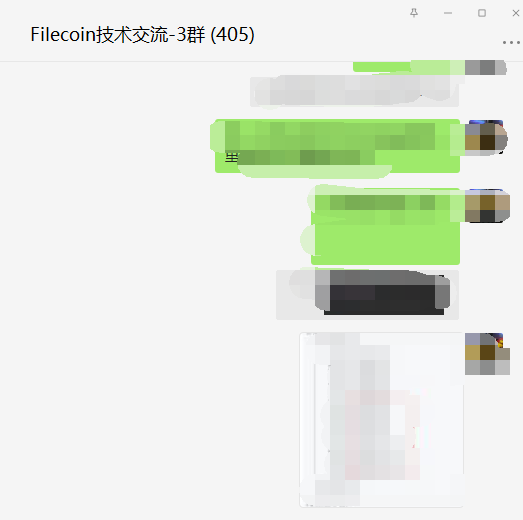
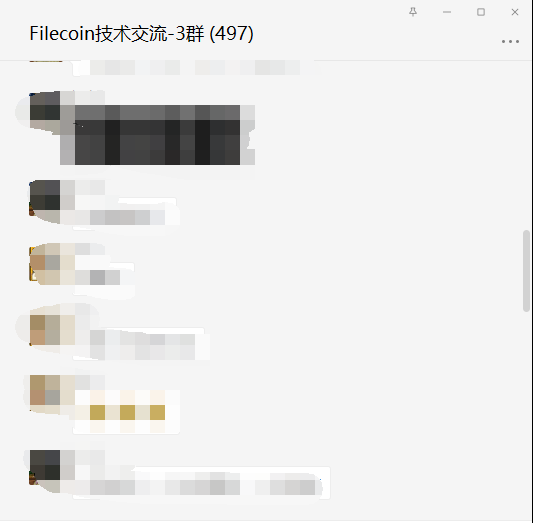
添加 Filecoin技术交流群-4群。

diff --git a/README.md b/README.md
@@ -1317,12 +1317,14 @@ Swap:         2.0Gi       1.2Gi       795Mi
 
 Filecoin 中文交流-1群（目前已满）,
 Filecoin 中文交流-2群（目前已满）,
-Filecoin 中文交流-3群（目前还有空位）,
+Filecoin 中文交流-3群（目前已满）,
+Filecoin 中文交流-4群（目前还有空位）,
 
 
 ![Filecoin 中文交流-1群（目前已满）](./pictures/wechat_group_01.png)
 ![Filecoin 中文交流-2群（目前已满）](./pictures/wechat_group_02.png)
-![Filecoin 中文交流-3群（目前还有空位）](./pictures/wechat_group_03.png)
+![Filecoin 中文交流-3群（目前已满）](./pictures/wechat_group_03.png)
+![Filecoin 中文交流-4群（目前还有空位）](./pictures/wechat_group_04.png)
 
 
 
